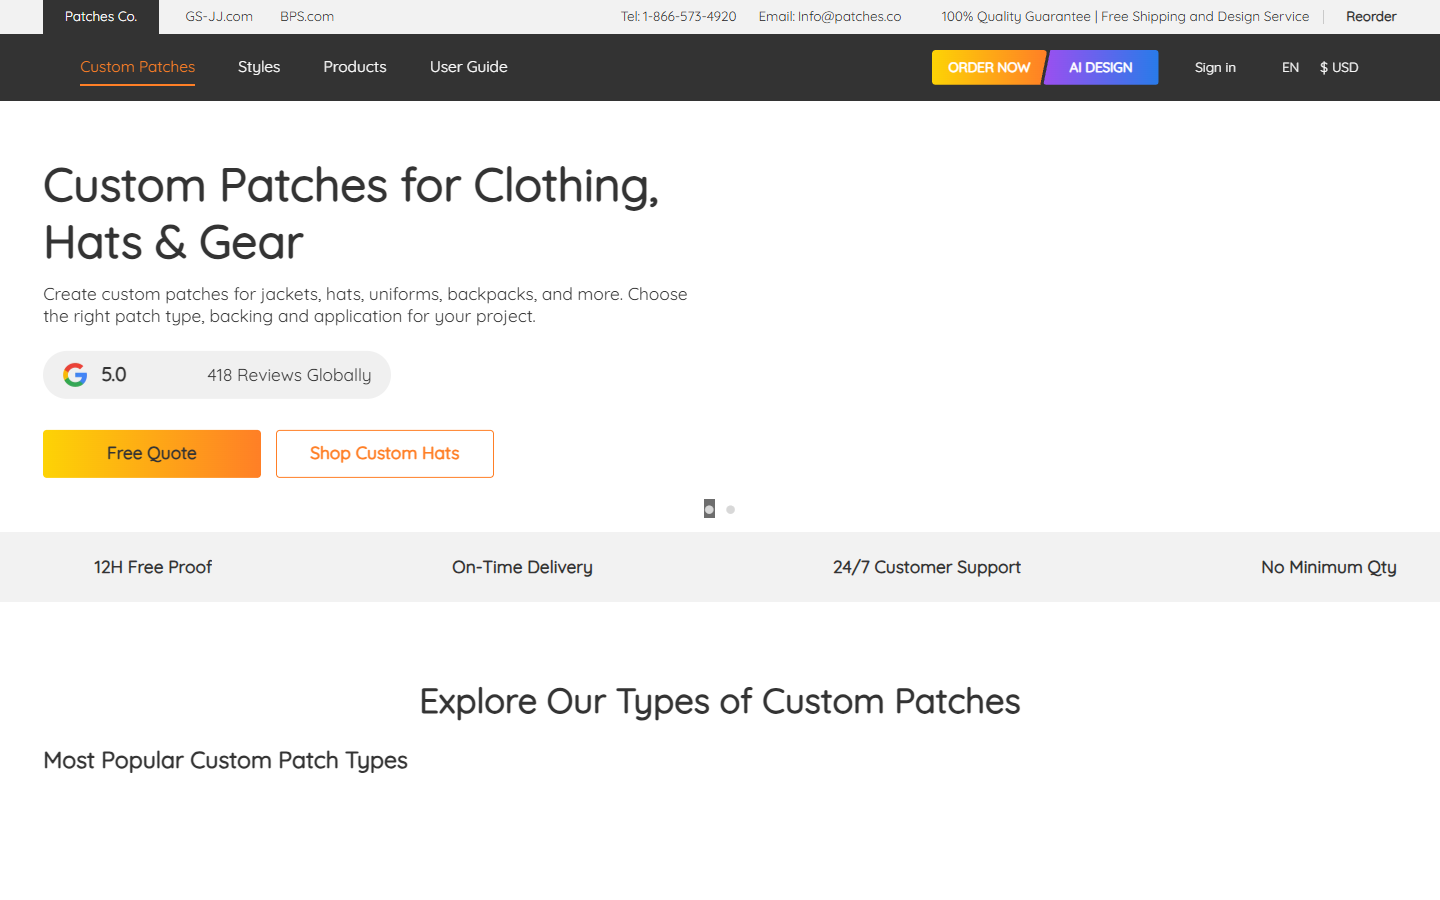
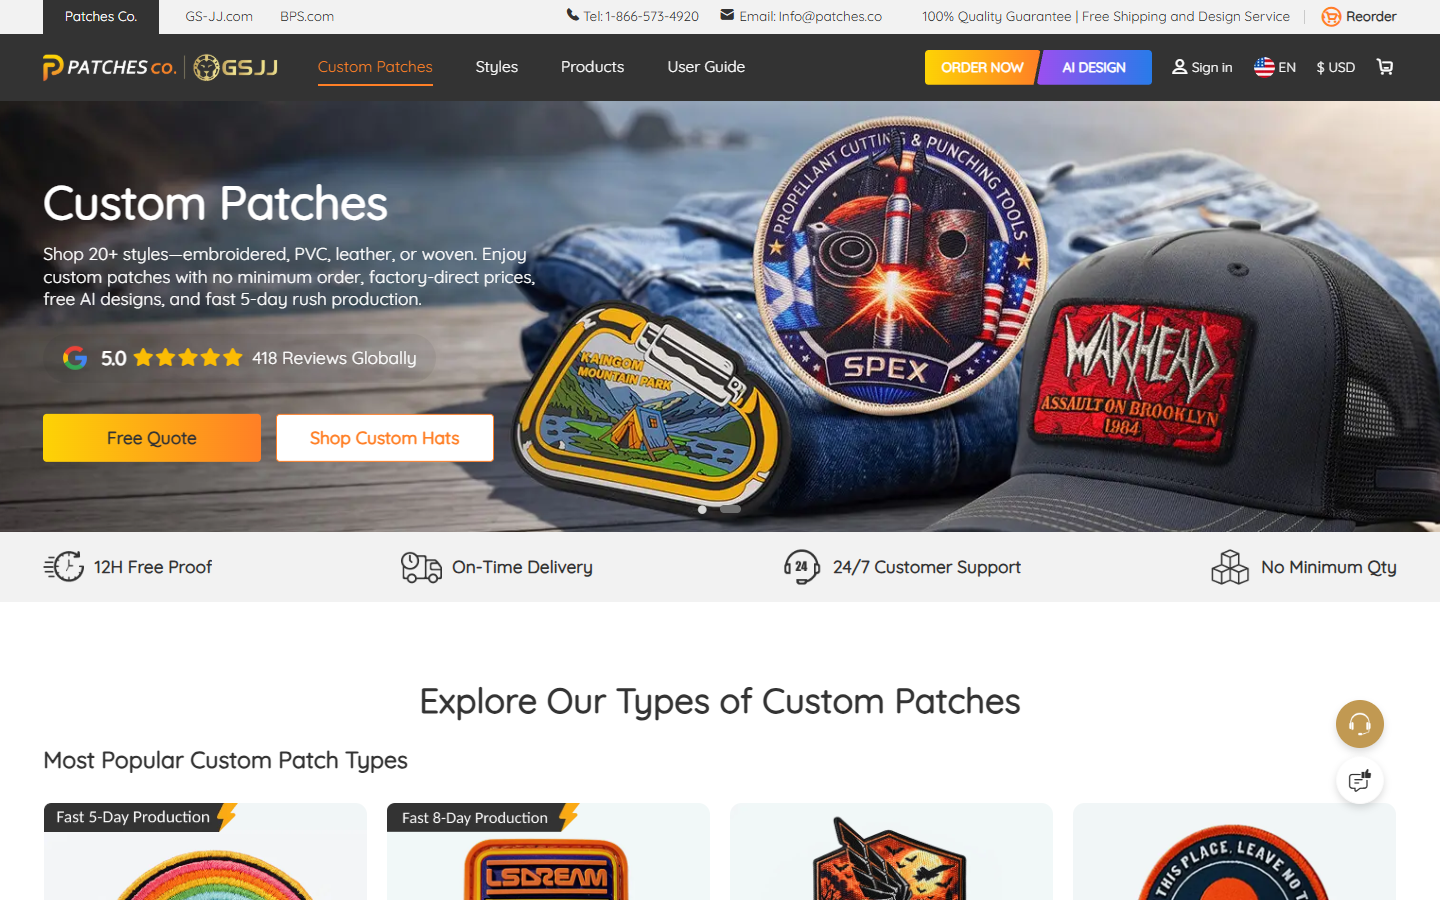
Improve live store previews and autoplay

diff --git a/project-samples/samples.js b/project-samples/samples.js
@@ -97,9 +97,11 @@ $('#dialog-close').addEventListener('click',closeDetail);dialog.addEventListener
 const stepsHTML=steps=>'<ol class="steps">'+steps.map(s=>'<li><strong>'+esc(s[0])+'</strong>'+esc(s[1])+'</li>').join('')+'</ol>';
 let storeIndex=0,storeView='live';
 $('#store-dots').innerHTML=LIVE_STORES.map((s,i)=>'<button type="button" data-store="'+i+'" aria-label="Show '+esc(s.name)+'" aria-pressed="'+(i===0)+'"></button>').join('');
-function renderStore(){const s=LIVE_STORES[storeIndex],live=storeView==='live';$('#store-index').textContent=String(storeIndex+1).padStart(2,'0')+' / '+String(LIVE_STORES.length).padStart(2,'0');$('#live-store-heading').textContent=s.name;$('#store-domain').textContent=s.domain+' ↗';$('#store-domain').href=s.url;$('#store-counter').textContent=String(storeIndex+1).padStart(2,'0')+' / '+String(LIVE_STORES.length).padStart(2,'0');$('#store-live-tab').setAttribute('aria-pressed',String(live));$('#store-backend-tab').setAttribute('aria-pressed',String(!live));$('#backend-status').textContent=live?'Click the featured store to open the live website.':'Backend image will be added when supplied.';$('#store-image-link').hidden=!live;$('#backend-placeholder').hidden=live;$('#store-image-link').href=s.url;$('#store-image-link').setAttribute('aria-label','Open '+s.name+' live store');$('#store-browser-label').textContent=s.domain.toUpperCase()+' / LIVE STOREFRONT';$('#store-image').src='assets/live-stores/'+s.image;$('#store-image').alt=s.name+' live store navigation and hero section';$('#backend-placeholder-title').textContent=s.name;document.querySelectorAll('[data-store]').forEach((b,i)=>b.setAttribute('aria-pressed',String(i===storeIndex)));}
-function moveStore(d){storeIndex=(storeIndex+d+LIVE_STORES.length)%LIVE_STORES.length;storeView='live';renderStore();}
-$('#store-prev').addEventListener('click',()=>moveStore(-1));$('#store-next').addEventListener('click',()=>moveStore(1));$('#store-live-tab').addEventListener('click',()=>{storeView='live';renderStore();});$('#store-backend-tab').addEventListener('click',()=>{storeView='backend';renderStore();});document.querySelectorAll('[data-store]').forEach(b=>b.addEventListener('click',()=>{storeIndex=Number(b.dataset.store);storeView='live';renderStore();}));renderStore();
+function renderStore(){const s=LIVE_STORES[storeIndex],live=storeView==='live';$('#store-index').textContent=String(storeIndex+1).padStart(2,'0')+' / '+String(LIVE_STORES.length).padStart(2,'0');$('#live-store-heading').textContent=s.name;$('#store-domain').textContent=s.domain+' ↗';$('#store-domain').href=s.url;$('#store-counter').textContent=String(storeIndex+1).padStart(2,'0')+' / '+String(LIVE_STORES.length).padStart(2,'0');$('#store-live-tab').setAttribute('aria-pressed',String(live));$('#store-backend-tab').setAttribute('aria-pressed',String(!live));$('#backend-status').textContent=live?'Live homepage preview. The next store loads automatically every 2 seconds.':'Backend image will be added when supplied.';$('#store-image-link').hidden=!live;$('#backend-placeholder').hidden=live;$('#store-image-link').href=s.url;$('#store-image-link').setAttribute('aria-label','Open '+s.name+' live store');$('#store-browser-label').textContent=s.domain.toUpperCase()+' / LIVE HOMEPAGE';$('#store-image').src='assets/live-stores/'+s.image;$('#store-image').alt=s.name+' live store navigation, hero and homepage features';$('#backend-placeholder-title').textContent=s.name;document.querySelectorAll('[data-store]').forEach((b,i)=>b.setAttribute('aria-pressed',String(i===storeIndex)));const upcoming=LIVE_STORES[(storeIndex+1)%LIVE_STORES.length];new Image().src='assets/live-stores/'+upcoming.image;}
+let storeTimer=null,storePaused=false;
+function scheduleStore(){clearTimeout(storeTimer);if(storePaused||document.hidden||storeView!=='live')return;storeTimer=setTimeout(()=>changeStore(1),2000);}
+function changeStore(d){const shell=$('.live-store-showcase');shell.classList.add('is-changing');clearTimeout(storeTimer);setTimeout(()=>{storeIndex=(storeIndex+d+LIVE_STORES.length)%LIVE_STORES.length;storeView='live';renderStore();requestAnimationFrame(()=>shell.classList.remove('is-changing'));scheduleStore();},180);}
+$('#store-prev').addEventListener('click',()=>changeStore(-1));$('#store-next').addEventListener('click',()=>changeStore(1));$('#store-live-tab').addEventListener('click',()=>{storeView='live';renderStore();scheduleStore();});$('#store-backend-tab').addEventListener('click',()=>{storeView='backend';renderStore();clearTimeout(storeTimer);});document.querySelectorAll('[data-store]').forEach(b=>b.addEventListener('click',()=>{storeIndex=Number(b.dataset.store);storeView='live';renderStore();scheduleStore();}));const storeShell=$('.live-store-showcase');storeShell.addEventListener('mouseenter',()=>{storePaused=true;clearTimeout(storeTimer);});storeShell.addEventListener('mouseleave',()=>{storePaused=false;scheduleStore();});storeShell.addEventListener('focusin',()=>{storePaused=true;clearTimeout(storeTimer);});storeShell.addEventListener('focusout',e=>{if(!storeShell.contains(e.relatedTarget)){storePaused=false;scheduleStore();}});document.addEventListener('visibilitychange',scheduleStore);renderStore();scheduleStore();
 $('#role-grid').innerHTML=ROLES.map((r,i)=>'<article class="role-card" data-role="'+esc(r.title)+'"><div class="role-top">'+(r.logo!=='mailchimp.svg'?'<img src="../assets/tool-logos/'+r.logo+'" alt="'+(r.logo==='zendesk.svg'?'Zendesk':r.logo==='canva.svg'?'Canva':'Shopify')+' logo" width="22" height="22" loading="lazy">':'<span>EMAIL</span>')+'</div><div class="role-body"><span class="badge">Sample data</span><h3>'+esc(r.title)+'</h3><p>'+esc(r.intro)+'</p><div class="role-artifact">'+r.rows.map(row=>'<div class="artifact-row"><span>'+esc(row[0])+'</span><b>'+esc(row[1])+'</b></div>').join('')+'</div><button class="text-link role-open" type="button" data-index="'+i+'">'+(r.extra==='support'?'Try the response demo':'Inspect the sample')+' ↗</button></div></article>').join('');
 const SUPPORT={email:'Subject: An update on your order\n\nHi there,\n\nThanks for reaching out. I understand you would like an update on your delivery. Once your order is verified, I will check the latest carrier information and explain the next step. If the scan history needs investigation, I will raise it with our fulfillment team and agree a follow-up time with you.\n\nThank you for your patience.',chat:'Hi! I can help check your delivery. Please use our secure order-verification process first. I will review the latest tracking update and explain what is confirmed. If we need the carrier to investigate, I will keep the ticket open and confirm the next update with you.',call:'Opening: Thanks for calling. I understand you are checking on a delivery.\nVerify: Follow the approved identity-check process.\nInvestigate: Ask permission to review the order and tracking.\nExplain: Share only confirmed information, not an unverified ETA.\nClose: Summarize the next action, owner and agreed follow-up window.'};
 function openRole(index){const r=ROLES[index];let extra='';if(r.extra==='support')extra='<label for="support-channel">Choose a support channel</label><select id="support-channel"><option value="email">Email response</option><option value="chat">Live chat response</option><option value="call">Call guide</option></select><div class="support-reply" id="support-reply" aria-live="polite"></div>';if(r.extra==='ads')extra='<div class="deliverable"><strong>Proposed creative A / Product-led still</strong><p>Headline: Make room for your everyday.<br>Body: A simple carryall for your daily essentials. Explore the Form & Field collection.<br>CTA: Shop now.<br>Visual: original tote illustration with a clean product crop. Fictional brand, not a live ad.</p><img class="expanded-image" src="assets/ad-concept.svg" alt="Original proposed Form and Field tote ad creative, concept only"></div>';if(r.extra==='analytics')extra='<label for="report-dataset">Inspect a synthetic reporting period</label><select id="report-dataset"><option value="0">Sample A: 3,000 sessions / 120 orders</option><option value="1">Sample B: 2,500 sessions / 85 orders</option></select><div class="support-reply" id="report-result" aria-live="polite"></div>';openDetail('<span class="badge">Sample data</span><h2 id="dialog-title">'+esc(r.title)+'</h2><p>'+esc(r.intro)+'</p>'+extra+stepsHTML(r.steps)+'<div class="deliverable"><strong>Deliverable & boundary</strong><p>'+esc(r.deliverable)+'</p></div>');if(r.extra==='support'){const update=()=>$('#support-reply').textContent=SUPPORT[$('#support-channel').value];$('#support-channel').addEventListener('change',update);update();}if(r.extra==='analytics'){const update=()=>{const d=$('#report-dataset').value==='0'?[120,3000]:[85,2500];$('#report-result').textContent=d[0]+' orders ÷ '+d[1].toLocaleString()+' sessions × 100 = '+(d[0]/d[1]*100).toFixed(2)+'% order/session ratio. Synthetic data, not a measured client result.';};$('#report-dataset').addEventListener('change',update);update();}}

diff --git a/project-samples/samples.css b/project-samples/samples.css
@@ -242,6 +242,6 @@ h3,.feature-copy h3,.role-body h3,.website-copy h3{font-size:1.12rem;font-weight
 @media(max-width:700px){.sample-placeholder-grid{grid-template-columns:minmax(0,1fr);gap:16px;margin-top:24px}}
 .shipment-summary details{margin-top:18px}
 .shipment-summary details .steps{margin-top:20px}
-.live-store-showcase{display:grid;grid-template-columns:minmax(250px,.72fr) minmax(0,1.45fr);min-height:510px;border:1px solid var(--panel-border);border-radius:16px;overflow:hidden;background:var(--panel);margin-bottom:14px}.live-store-copy{padding:32px;display:flex;flex-direction:column;align-items:flex-start;min-width:0}.store-index{font:11px var(--mono);letter-spacing:.16em;color:var(--cyan);margin:2px 0 22px}.live-store-copy h3{font-size:clamp(1.7rem,3vw,2.55rem);margin-bottom:8px}.store-domain{color:var(--cyan);font:12px var(--mono);overflow-wrap:anywhere;margin-bottom:24px}.live-store-copy>p:not(.store-index):not(.backend-status){font-size:14px}.store-view-tabs{display:flex;gap:8px;flex-wrap:wrap;margin-top:auto}.store-view-tabs button{font-size:12px;padding:9px 13px}.store-view-tabs button[aria-pressed=true]{background:var(--lime);border-color:var(--lime);color:#101820}.backend-status{font-size:11px;margin:12px 0 0}.store-controls{margin-top:18px}.live-store-stage{min-width:0;background:#07090c;display:grid;position:relative}.live-store-stage>a{display:flex;min-width:0;flex-direction:column;color:inherit}.live-store-stage .browser-chrome{border-radius:0}.live-store-stage img{width:100%;height:100%;min-height:470px;object-fit:contain;object-position:top;background:#07090c}.backend-placeholder{min-height:500px;display:grid;place-content:center;text-align:center;padding:34px;background:radial-gradient(circle at 50% 35%,rgba(142,200,250,.12),transparent 42%),#101419}.backend-placeholder span{font:10px var(--mono);letter-spacing:.18em;color:var(--cyan)}.backend-placeholder strong{font-size:28px;margin:12px 0}.backend-placeholder p{max-width:390px;font-size:13px}.store-dots{display:flex;flex-wrap:wrap;justify-content:center;gap:7px;margin:14px 0 30px}.store-dots button{width:10px;height:10px;padding:0;border-radius:50%;background:transparent}.store-dots button[aria-pressed=true]{background:var(--lime);border-color:var(--lime)}
+.live-store-showcase{display:grid;grid-template-columns:minmax(250px,.72fr) minmax(0,1.45fr);min-height:510px;border:1px solid var(--panel-border);border-radius:16px;overflow:hidden;background:var(--panel);margin-bottom:14px}.live-store-copy{padding:32px;display:flex;flex-direction:column;align-items:flex-start;min-width:0}.store-index{font:11px var(--mono);letter-spacing:.16em;color:var(--cyan);margin:2px 0 22px}.live-store-copy h3{font-size:clamp(1.7rem,3vw,2.55rem);margin-bottom:8px}.store-domain{color:var(--cyan);font:12px var(--mono);overflow-wrap:anywhere;margin-bottom:24px}.live-store-copy>p:not(.store-index):not(.backend-status){font-size:14px}.store-view-tabs{display:flex;gap:8px;flex-wrap:wrap;margin-top:auto}.store-view-tabs button{font-size:12px;padding:9px 13px}.store-view-tabs button[aria-pressed=true]{background:var(--lime);border-color:var(--lime);color:#101820}.backend-status{font-size:11px;margin:12px 0 0}.store-controls{margin-top:18px}.live-store-stage{min-width:0;background:#07090c;display:grid;position:relative;transition:opacity .18s ease,transform .18s ease}.live-store-copy>*,.store-dots{transition:opacity .18s ease,transform .18s ease}.live-store-showcase.is-changing .live-store-stage,.live-store-showcase.is-changing .live-store-copy>*{opacity:0;transform:translateY(6px)}.live-store-stage::after{content:"";position:absolute;z-index:4;left:0;bottom:0;width:100%;height:3px;transform-origin:left;background:linear-gradient(90deg,var(--cyan),var(--lime));animation:store-progress 2s linear infinite;pointer-events:none}.live-store-showcase:hover .live-store-stage::after,.live-store-showcase:focus-within .live-store-stage::after{animation-play-state:paused}@keyframes store-progress{from{transform:scaleX(0)}to{transform:scaleX(1)}}.live-store-showcase:not(.is-changing) .live-store-stage img{animation:store-drift 1.8s ease-out both}@keyframes store-drift{from{opacity:.55;transform:scale(1.012)}to{opacity:1;transform:scale(1)}}.live-store-stage>a{display:flex;min-width:0;flex-direction:column;color:inherit}.live-store-stage .browser-chrome{border-radius:0}.live-store-stage img{width:100%;height:100%;min-height:470px;object-fit:contain;object-position:top;background:#07090c}.backend-placeholder{min-height:500px;display:grid;place-content:center;text-align:center;padding:34px;background:radial-gradient(circle at 50% 35%,rgba(142,200,250,.12),transparent 42%),#101419}.backend-placeholder span{font:10px var(--mono);letter-spacing:.18em;color:var(--cyan)}.backend-placeholder strong{font-size:28px;margin:12px 0}.backend-placeholder p{max-width:390px;font-size:13px}.store-dots{display:flex;flex-wrap:wrap;justify-content:center;gap:7px;margin:14px 0 30px}.store-dots button{width:10px;height:10px;padding:0;border-radius:50%;background:transparent}.store-dots button[aria-pressed=true]{background:var(--lime);border-color:var(--lime)}
 @media(max-width:900px){.live-store-showcase{grid-template-columns:1fr}.live-store-copy{padding:26px}.live-store-stage{min-height:360px}.live-store-stage img{min-height:340px}}
 @media(max-width:700px){.live-store-copy{padding:22px}.live-store-stage,.backend-placeholder{min-height:300px}.live-store-stage img{min-height:260px}.store-dots{padding-bottom:8px}}

diff --git a/project-samples/index.html b/project-samples/index.html
@@ -1,5 +1,5 @@
 <!doctype html>
-<html lang="en" data-theme="dark"><head><meta charset="utf-8"><meta name="viewport" content="width=device-width,initial-scale=1"><meta name="robots" content="noindex,nofollow"><meta name="color-scheme" content="dark"><meta name="description" content="Agent Rome project samples. Explore ecommerce workflows, website demos and automation diagrams."><title>Project Samples | Agent Rome</title><link rel="icon" href="../logo-512.png"><link rel="preconnect" href="https://fonts.googleapis.com"><link rel="preconnect" href="https://fonts.gstatic.com" crossorigin><link href="https://fonts.googleapis.com/css2?family=Space+Grotesk:wght@400;500;600;700&family=JetBrains+Mono:wght@400;500;700&display=swap" rel="stylesheet"><link rel="stylesheet" href="samples.css?v=live-stores-1"><script src="projects.js?v=autoplay-1" defer></script><script src="samples.js?v=live-stores-1" defer></script><link rel="stylesheet" href="case-studies.css?v=hover-autoplay-2"><script src="case-studies.js?v=hover-autoplay-2" defer></script><link rel="stylesheet" href="portfolio-shell.css?v=shell-1"><script src="portfolio-shell.js?v=shell-1" defer></script></head>
+<html lang="en" data-theme="dark"><head><meta charset="utf-8"><meta name="viewport" content="width=device-width,initial-scale=1"><meta name="robots" content="noindex,nofollow"><meta name="color-scheme" content="dark"><meta name="description" content="Agent Rome project samples. Explore ecommerce workflows, website demos and automation diagrams."><title>Project Samples | Agent Rome</title><link rel="icon" href="../logo-512.png"><link rel="preconnect" href="https://fonts.googleapis.com"><link rel="preconnect" href="https://fonts.gstatic.com" crossorigin><link href="https://fonts.googleapis.com/css2?family=Space+Grotesk:wght@400;500;600;700&family=JetBrains+Mono:wght@400;500;700&display=swap" rel="stylesheet"><link rel="stylesheet" href="samples.css?v=live-stores-2"><script src="projects.js?v=autoplay-1" defer></script><script src="samples.js?v=live-stores-2" defer></script><link rel="stylesheet" href="case-studies.css?v=hover-autoplay-2"><script src="case-studies.js?v=hover-autoplay-2" defer></script><link rel="stylesheet" href="portfolio-shell.css?v=shell-1"><script src="portfolio-shell.js?v=shell-1" defer></script></head>
 <body><a class="skip" href="#library">Skip to work library</a><nav class="nav">
 <div class="wrap">
 <a aria-label="About Jerome Grisler" class="nav-brand-group" href="../#about" id="about-open">
